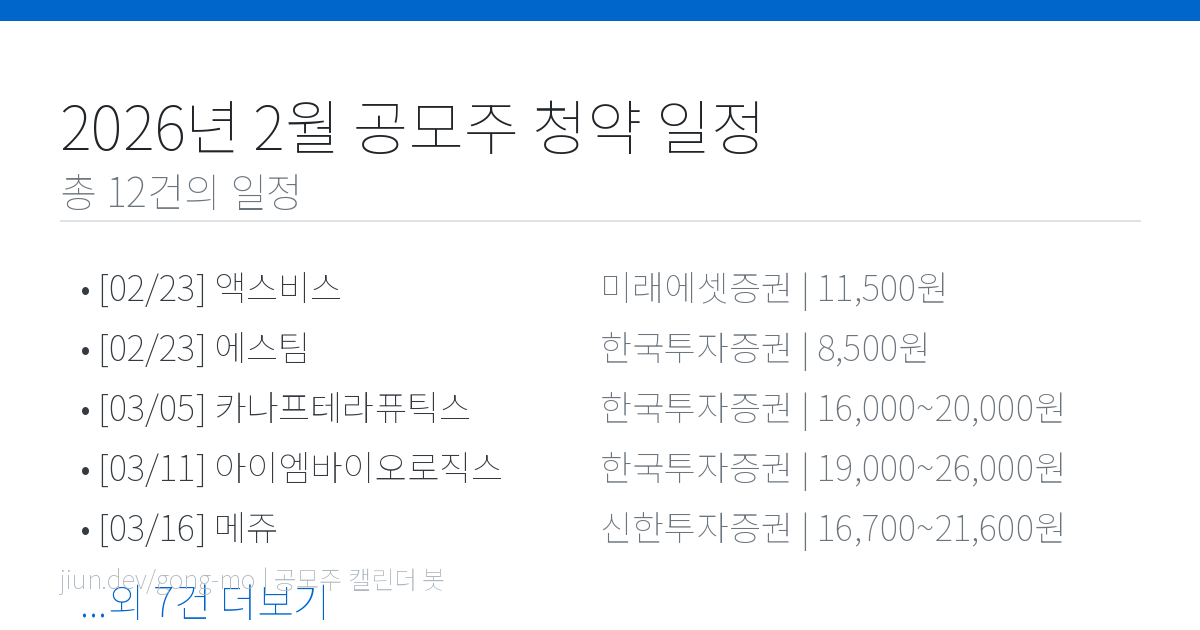
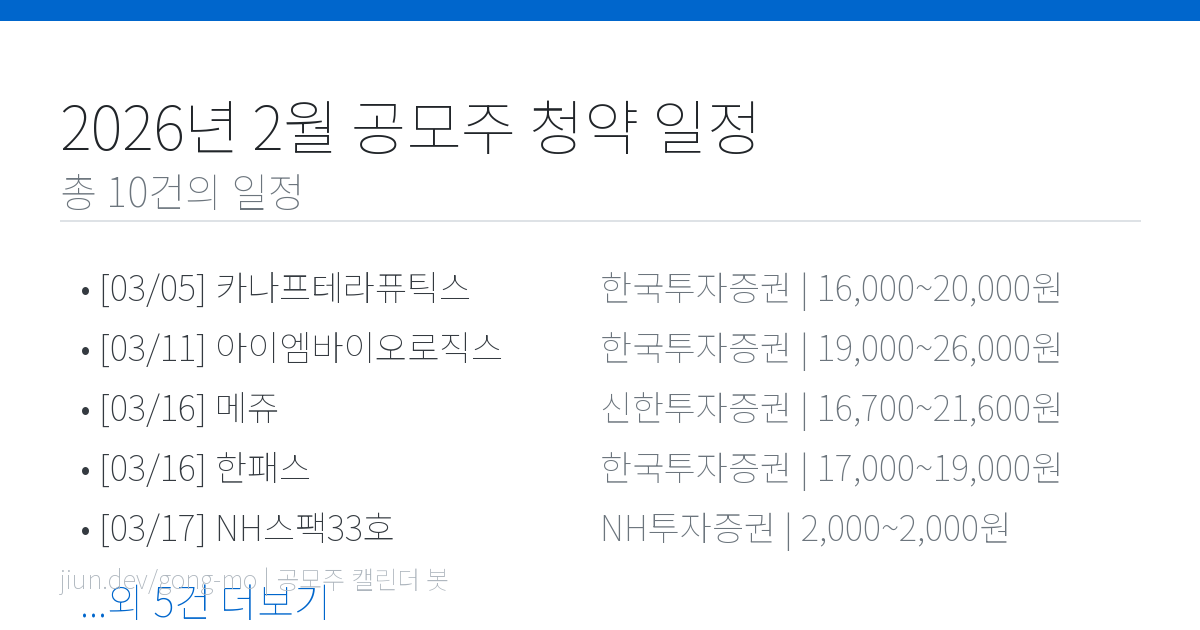
fix: restore Google Analytics, gtag, and AdSense to deployed site
The GA/AdSense IDs were stripped out when config.py defaults were changed
to empty strings (commit 85a7aab) without setting up environment variables.

Changes:
- Add GA/AdSense env vars to CI workflow (update-ipo.yml)
- Regenerate docs/index.html with correct tracking IDs

diff --git a/docs/index.html b/docs/index.html
@@ -3,13 +3,13 @@
 <head>
     <meta charset="UTF-8">
     <meta name="viewport" content="width=device-width, initial-scale=1.0">
-    <title>2월 공모주 캘린더 - 액스비스 외 11건</title>
+    <title>2월 공모주 캘린더 - 카나프테라퓨틱스 외 9건</title>
 
     <!-- Open Graph / Facebook -->
     <meta property="og:type" content="website">
     <meta property="og:url" content="https://jiun.dev/gong-mo/">
-    <meta property="og:title" content="2월 공모주 캘린더 - 액스비스 외 11건">
-    <meta property="og:description" content="2월 공모주 일정: [액스비스, 에스팀, 카나프테라퓨틱스] 등 12건의 청약 일정을 확인하세요. 대한민국 공모주 청약 일정과 IPO 캘린더 정보를 확인하고, 구글 캘린더에 추가하여 놓치지 마세요.">
+    <meta property="og:title" content="2월 공모주 캘린더 - 카나프테라퓨틱스 외 9건">
+    <meta property="og:description" content="2월 공모주 일정: [카나프테라퓨틱스, 아이엠바이오로직스, 메쥬] 등 10건의 청약 일정을 확인하세요. 대한민국 공모주 청약 일정과 IPO 캘린더 정보를 확인하고, 구글 캘린더에 추가하여 놓치지 마세요.">
     <meta property="og:image" content="https://jiun.dev/gong-mo/og-image.png">
     <meta property="og:image:type" content="image/png">
     <meta property="og:image:width" content="1200">
@@ -19,11 +19,11 @@
     <!-- Twitter -->
     <meta name="twitter:card" content="summary_large_image">
     <meta name="twitter:url" content="https://jiun.dev/gong-mo/">
-    <meta name="twitter:title" content="2월 공모주 캘린더 - 액스비스 외 11건">
-    <meta name="twitter:description" content="2월 공모주 일정: [액스비스, 에스팀, 카나프테라퓨틱스] 등 12건의 청약 일정을 확인하세요. 대한민국 공모주 청약 일정과 IPO 캘린더 정보를 확인하고, 구글 캘린더에 추가하여 놓치지 마세요.">
+    <meta name="twitter:title" content="2월 공모주 캘린더 - 카나프테라퓨틱스 외 9건">
+    <meta name="twitter:description" content="2월 공모주 일정: [카나프테라퓨틱스, 아이엠바이오로직스, 메쥬] 등 10건의 청약 일정을 확인하세요. 대한민국 공모주 청약 일정과 IPO 캘린더 정보를 확인하고, 구글 캘린더에 추가하여 놓치지 마세요.">
     <meta name="twitter:image" content="https://jiun.dev/gong-mo/og-image.png">
 
-    <meta name="description" content="2월 공모주 일정: [액스비스, 에스팀, 카나프테라퓨틱스] 등 12건의 청약 일정을 확인하세요. 대한민국 공모주 청약 일정과 IPO 캘린더 정보를 확인하고, 구글 캘린더에 추가하여 놓치지 마세요.">
+    <meta name="description" content="2월 공모주 일정: [카나프테라퓨틱스, 아이엠바이오로직스, 메쥬] 등 10건의 청약 일정을 확인하세요. 대한민국 공모주 청약 일정과 IPO 캘린더 정보를 확인하고, 구글 캘린더에 추가하여 놓치지 마세요.">
     <meta name="keywords" content="공모주, IPO, 청약, 주식, 캘린더, 일정">
     <link rel="canonical" href="https://jiun.dev/gong-mo/">
     
@@ -32,13 +32,26 @@
     <link rel="apple-touch-icon" href="icon-192.png">
 
     <script type="application/ld+json">
-        [{"@context": "https://schema.org", "@type": "WebSite", "name": "공모주 캘린더", "description": "2월 공모주 일정: [액스비스, 에스팀, 카나프테라퓨틱스] 등 12건의 청약 일정을 확인하세요. 대한민국 공모주 청약 일정과 IPO 캘린더 정보를 확인하고, 구글 캘린더에 추가하여 놓치지 마세요.", "url": "https://jiun.dev/gong-mo/"}, {"@context": "https://schema.org", "@type": "Event", "name": "액스비스 공모주 청약", "description": "액스비스 IPO 청약 일정. 공모가: 11,500원", "startDate": "2026-02-23", "endDate": "2026-02-24", "location": {"@type": "Place", "name": "미래에셋증권", "address": "온라인 청약"}, "eventStatus": "https://schema.org/EventScheduled", "eventAttendanceMode": "https://schema.org/OnlineEventAttendanceMode"}, {"@context": "https://schema.org", "@type": "Event", "name": "에스팀 공모주 청약", "description": "에스팀 IPO 청약 일정. 공모가: 8,500원", "startDate": "2026-02-23", "endDate": "2026-02-24", "location": {"@type": "Place", "name": "한국투자증권", "address": "온라인 청약"}, "eventStatus": "https://schema.org/EventScheduled", "eventAttendanceMode": "https://schema.org/OnlineEventAttendanceMode"}, {"@context": "https://schema.org", "@type": "Event", "name": "카나프테라퓨틱스 공모주 청약", "description": "카나프테라퓨틱스 IPO 청약 일정. 공모가: 16,000~20,000원", "startDate": "2026-03-05", "endDate": "2026-03-06", "location": {"@type": "Place", "name": "한국투자증권", "address": "온라인 청약"}, "eventStatus": "https://schema.org/EventScheduled", "eventAttendanceMode": "https://schema.org/OnlineEventAttendanceMode"}, {"@context": "https://schema.org", "@type": "Event", "name": "아이엠바이오로직스 공모주 청약", "description": "아이엠바이오로직스 IPO 청약 일정. 공모가: 19,000~26,000원", "startDate": "2026-03-11", "endDate": "2026-03-12", "location": {"@type": "Place", "name": "한국투자증권", "address": "온라인 청약"}, "eventStatus": "https://schema.org/EventScheduled", "eventAttendanceMode": "https://schema.org/OnlineEventAttendanceMode"}, {"@context": "https://schema.org", "@type": "Event", "name": "메쥬 공모주 청약", "description": "메쥬 IPO 청약 일정. 공모가: 16,700~21,600원", "startDate": "2026-03-16", "endDate": "2026-03-17", "location": {"@type": "Place", "name": "신한투자증권", "address": "온라인 청약"}, "eventStatus": "https://schema.org/EventScheduled", "eventAttendanceMode": "https://schema.org/OnlineEventAttendanceMode"}]
+        [{"@context": "https://schema.org", "@type": "WebSite", "name": "공모주 캘린더", "description": "2월 공모주 일정: [카나프테라퓨틱스, 아이엠바이오로직스, 메쥬] 등 10건의 청약 일정을 확인하세요. 대한민국 공모주 청약 일정과 IPO 캘린더 정보를 확인하고, 구글 캘린더에 추가하여 놓치지 마세요.", "url": "https://jiun.dev/gong-mo/"}, {"@context": "https://schema.org", "@type": "Event", "name": "카나프테라퓨틱스 공모주 청약", "description": "카나프테라퓨틱스 IPO 청약 일정. 공모가: 16,000~20,000원", "startDate": "2026-03-05", "endDate": "2026-03-06", "location": {"@type": "Place", "name": "한국투자증권", "address": "온라인 청약"}, "eventStatus": "https://schema.org/EventScheduled", "eventAttendanceMode": "https://schema.org/OnlineEventAttendanceMode"}, {"@context": "https://schema.org", "@type": "Event", "name": "아이엠바이오로직스 공모주 청약", "description": "아이엠바이오로직스 IPO 청약 일정. 공모가: 19,000~26,000원", "startDate": "2026-03-11", "endDate": "2026-03-12", "location": {"@type": "Place", "name": "한국투자증권", "address": "온라인 청약"}, "eventStatus": "https://schema.org/EventScheduled", "eventAttendanceMode": "https://schema.org/OnlineEventAttendanceMode"}, {"@context": "https://schema.org", "@type": "Event", "name": "메쥬 공모주 청약", "description": "메쥬 IPO 청약 일정. 공모가: 16,700~21,600원", "startDate": "2026-03-16", "endDate": "2026-03-17", "location": {"@type": "Place", "name": "신한투자증권", "address": "온라인 청약"}, "eventStatus": "https://schema.org/EventScheduled", "eventAttendanceMode": "https://schema.org/OnlineEventAttendanceMode"}, {"@context": "https://schema.org", "@type": "Event", "name": "한패스 공모주 청약", "description": "한패스 IPO 청약 일정. 공모가: 17,000~19,000원", "startDate": "2026-03-16", "endDate": "2026-03-17", "location": {"@type": "Place", "name": "한국투자증권", "address": "온라인 청약"}, "eventStatus": "https://schema.org/EventScheduled", "eventAttendanceMode": "https://schema.org/OnlineEventAttendanceMode"}, {"@context": "https://schema.org", "@type": "Event", "name": "NH스팩33호 공모주 청약", "description": "NH스팩33호 IPO 청약 일정. 공모가: 2,000~2,000원", "startDate": "2026-03-17", "endDate": "2026-03-18", "location": {"@type": "Place", "name": "NH투자증권", "address": "온라인 청약"}, "eventStatus": "https://schema.org/EventScheduled", "eventAttendanceMode": "https://schema.org/OnlineEventAttendanceMode"}]
+    </script>
+    
+    <!-- Google tag (gtag.js) -->
+    <script async src="https://www.googletagmanager.com/gtag/js?id=G-G8EY2E5T71"></script>
+    <script>
+      window.dataLayer = window.dataLayer || [];
+      function gtag(){dataLayer.push(arguments);}
+      gtag('js', new Date());
+      gtag('config', 'G-G8EY2E5T71');
     </script>
     
     <link rel="stylesheet" href="styles.css">
     <link rel="preconnect" href="https://fonts.googleapis.com">
     <link rel="preconnect" href="https://fonts.gstatic.com" crossorigin>
     <link href="https://fonts.googleapis.com/css2?family=Noto+Sans+KR:wght@400;500;700&display=swap" rel="stylesheet">
+    
+    <!-- Google AdSense -->
+    <script async src="https://pagead2.googlesyndication.com/pagead/js/adsbygoogle.js?client=ca-pub-3746587025439528"
+     crossorigin="anonymous"></script>
     
 </head>
 <body>
@@ -49,6 +62,19 @@
         </header>
 
 
+        
+        <div class="ad-banner" role="region" aria-label="광고">
+            <!-- gong-mo -->
+            <ins class="adsbygoogle"
+                 style="display:block"
+                 data-ad-client="ca-pub-3746587025439528"
+                 data-ad-slot="7570903568"
+                 data-ad-format="auto"
+                 data-full-width-responsive="false"></ins>
+            <script>
+                 (adsbygoogle = window.adsbygoogle || []).push({});
+            </script>
+        </div>
         
 
         <section class="calendar-section">
@@ -87,6 +113,19 @@
         </section>
 
         <footer>
+        
+        <div class="ad-banner-bottom" role="region" aria-label="광고">
+            <!-- gong-mo-bottom -->
+            <ins class="adsbygoogle"
+                 style="display:block"
+                 data-ad-client="ca-pub-3746587025439528"
+                 data-ad-slot="4370025151"
+                 data-ad-format="auto"
+                 data-full-width-responsive="false"></ins>
+            <script>
+                 (adsbygoogle = window.adsbygoogle || []).push({});
+            </script>
+        </div>
         
         <div class="footer-links">
             데이터를 가져온 <a href="https://www.38.co.kr" class="footer-source-link" target="_blank" rel="noopener">38커뮤니케이션 바로가기</a>
